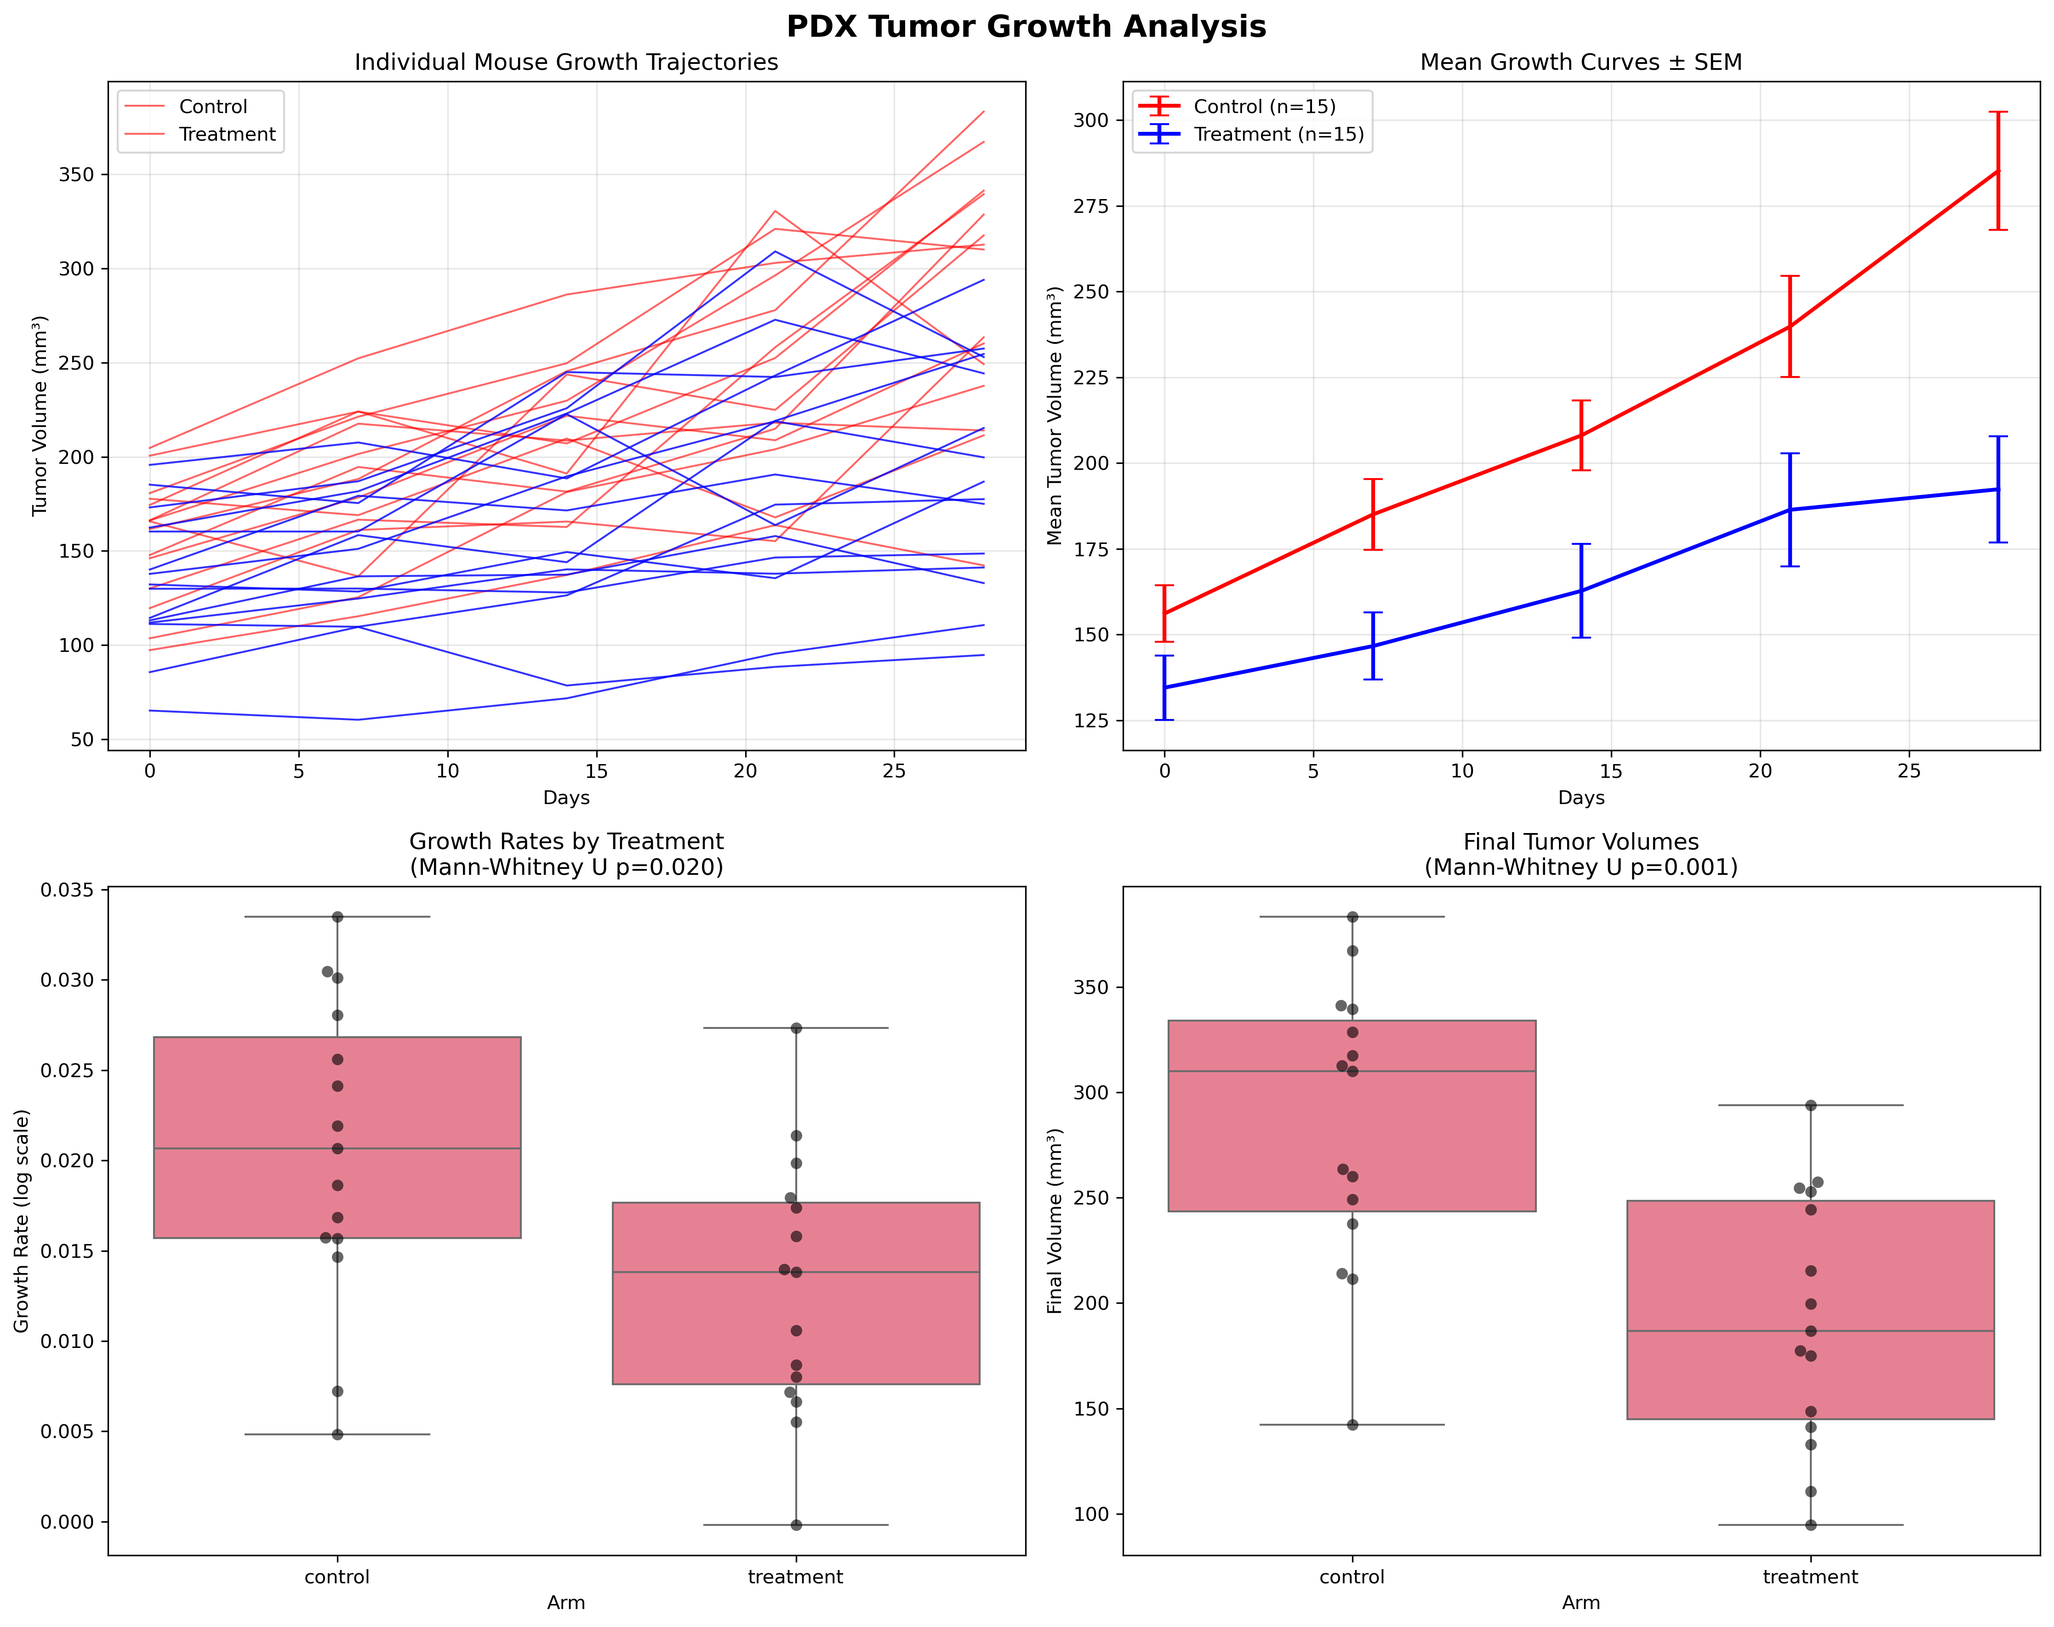
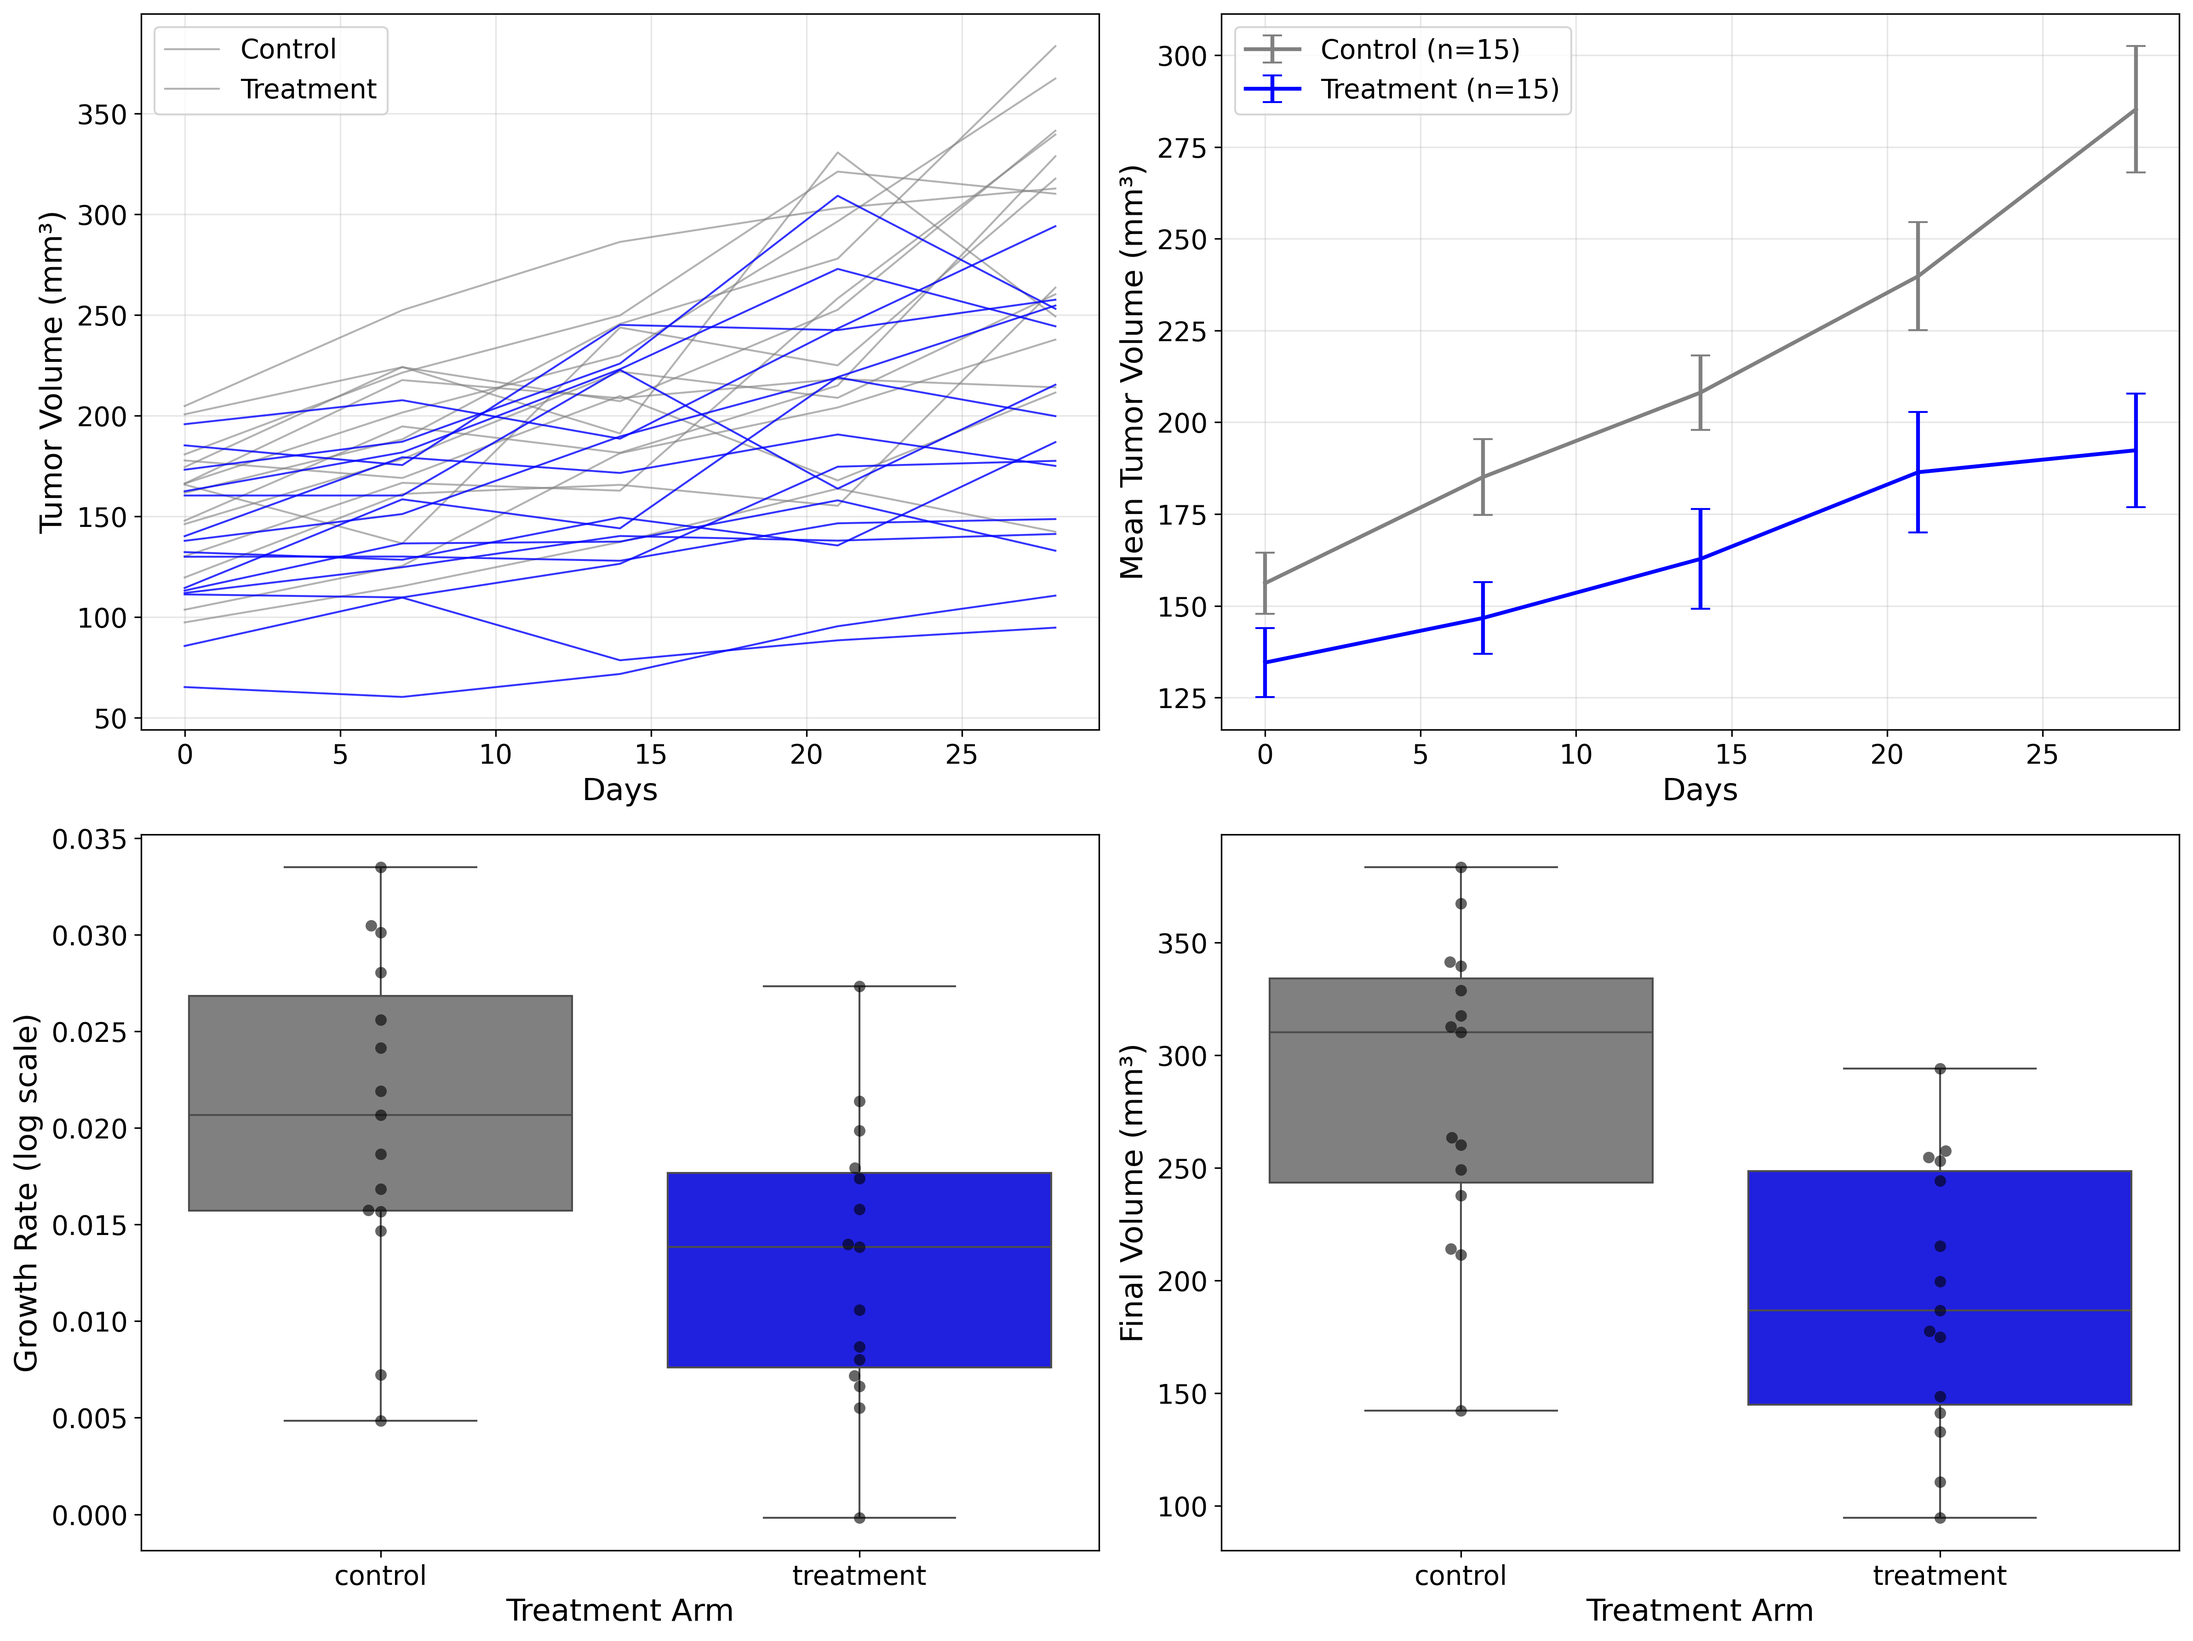
plots update

diff --git a/src/python/advanced_workflows.py b/src/python/advanced_workflows.py
@@ -85,26 +85,25 @@ class PDXWorkflows:
             
         print("\n=== GROWTH CURVE ANALYSIS ===")
         
-        # Create figure with subplots
-        fig, axes = plt.subplots(2, 2, figsize=(15, 12))
-        fig.suptitle('PDX Tumor Growth Analysis', fontsize=16, fontweight='bold')
+                # Create 2x2 subplot layout with larger fonts for mobile readability  
+        fig, axes = plt.subplots(2, 2, figsize=(16, 12))
         
-        # 1. Individual mouse trajectories by treatment
+        # 1. Individual mouse trajectories
         ax1 = axes[0, 0]
-        for arm in self.tumor_data['Arm'].unique():
+        for arm in ['control', 'treatment']:
             arm_data = self.tumor_data[self.tumor_data['Arm'] == arm]
             for model in arm_data['Model'].unique():
                 model_data = arm_data[arm_data['Model'] == model]
                 alpha = 0.6 if arm == 'control' else 0.8
-                color = 'red' if arm == 'control' else 'blue'
+                color = 'gray' if arm == 'control' else 'blue'  # Standard clinical colors
                 ax1.plot(model_data['Day'], model_data['Volume_mm3'], 
                         color=color, alpha=alpha, linewidth=1)
         
-        ax1.set_xlabel('Days')
-        ax1.set_ylabel('Tumor Volume (mm³)')
-        ax1.set_title('Individual Mouse Growth Trajectories')
-        ax1.legend(['Control', 'Treatment'])
+        ax1.set_xlabel('Days', fontsize=16)
+        ax1.set_ylabel('Tumor Volume (mm³)', fontsize=16)
+        ax1.legend(['Control', 'Treatment'], fontsize=14)
         ax1.grid(True, alpha=0.3)
+        ax1.tick_params(labelsize=14)
         
         # 2. Mean growth curves with error bars
         ax2 = axes[0, 1]
@@ -127,17 +126,17 @@ class PDXWorkflows:
         
         for arm in ['control', 'treatment']:
             arm_summary = summary_df[summary_df['Arm'] == arm]
-            color = 'red' if arm == 'control' else 'blue'
+            color = 'gray' if arm == 'control' else 'blue'  # Standard clinical colors
             ax2.errorbar(arm_summary['Day'], arm_summary['Mean'], 
                         yerr=arm_summary['SEM'], 
                         color=color, linewidth=2, capsize=5, 
                         label=f'{arm.title()} (n={arm_summary["N"].iloc[0]})')
         
-        ax2.set_xlabel('Days')
-        ax2.set_ylabel('Mean Tumor Volume (mm³)')
-        ax2.set_title('Mean Growth Curves ± SEM')
-        ax2.legend()
+        ax2.set_xlabel('Days', fontsize=16)
+        ax2.set_ylabel('Mean Tumor Volume (mm³)', fontsize=16)
+        ax2.legend(fontsize=14)
         ax2.grid(True, alpha=0.3)
+        ax2.tick_params(labelsize=14)
         
         # 3. Growth rate analysis
         ax3 = axes[1, 0]
@@ -159,8 +158,9 @@ class PDXWorkflows:
         
         growth_df = pd.DataFrame(growth_rates)
         
-        # Box plot of growth rates
-        sns.boxplot(data=growth_df, x='Arm', y='GrowthRate', ax=ax3)
+        # Box plot of growth rates with consistent colors and larger fonts
+        box_colors = ['gray', 'blue']  # control=gray, treatment=blue (clinical standard)
+        sns.boxplot(data=growth_df, x='Arm', y='GrowthRate', ax=ax3, palette=box_colors)
         sns.swarmplot(data=growth_df, x='Arm', y='GrowthRate', ax=ax3, 
                      color='black', alpha=0.6, size=6)
         
@@ -168,13 +168,12 @@ class PDXWorkflows:
         control_rates = growth_df[growth_df['Arm'] == 'control']['GrowthRate']
         treatment_rates = growth_df[growth_df['Arm'] == 'treatment']['GrowthRate']
         
-        if len(control_rates) > 0 and len(treatment_rates) > 0:
-            stat, p_value = mannwhitneyu(control_rates, treatment_rates, alternative='two-sided')
-            ax3.set_title(f'Growth Rates by Treatment\n(Mann-Whitney U p={p_value:.3f})')
-        else:
-            ax3.set_title('Growth Rates by Treatment')
+        # Remove titles for clean appearance
+        # Statistical significance can be inferred from the data visualization
             
-        ax3.set_ylabel('Growth Rate (log scale)')
+        ax3.set_ylabel('Growth Rate (log scale)', fontsize=16)
+        ax3.set_xlabel('Treatment Arm', fontsize=16)
+        ax3.tick_params(labelsize=14)
         
         # 4. Final volume comparison
         ax4 = axes[1, 1]
@@ -191,7 +190,9 @@ class PDXWorkflows:
         
         final_df = pd.DataFrame(final_volumes)
         
-        sns.boxplot(data=final_df, x='Arm', y='FinalVolume', ax=ax4)
+        # Box plot of final volumes with consistent colors and larger fonts
+        box_colors = ['gray', 'blue']  # control=gray, treatment=blue (clinical standard)
+        sns.boxplot(data=final_df, x='Arm', y='FinalVolume', ax=ax4, palette=box_colors)
         sns.swarmplot(data=final_df, x='Arm', y='FinalVolume', ax=ax4,
                      color='black', alpha=0.6, size=6)
         
@@ -199,13 +200,12 @@ class PDXWorkflows:
         control_final = final_df[final_df['Arm'] == 'control']['FinalVolume']
         treatment_final = final_df[final_df['Arm'] == 'treatment']['FinalVolume']
         
-        if len(control_final) > 0 and len(treatment_final) > 0:
-            stat, p_value = mannwhitneyu(control_final, treatment_final, alternative='two-sided')
-            ax4.set_title(f'Final Tumor Volumes\n(Mann-Whitney U p={p_value:.3f})')
-        else:
-            ax4.set_title('Final Tumor Volumes')
+        # Remove titles for clean appearance
+        # Statistical significance can be inferred from the data visualization
             
-        ax4.set_ylabel('Final Volume (mm³)')
+        ax4.set_ylabel('Final Volume (mm³)', fontsize=16)
+        ax4.set_xlabel('Treatment Arm', fontsize=16)
+        ax4.tick_params(labelsize=14)
         
         plt.tight_layout()
         
@@ -293,7 +293,6 @@ class PDXWorkflows:
         # Customize plot
         ax1.set_xlabel('PDX Models (ranked by response)')
         ax1.set_ylabel('Tumor Volume Change (%)')
-        ax1.set_title('Waterfall Plot: Drug Response Across PDX Models')
         ax1.legend()
         ax1.grid(True, alpha=0.3)
         
@@ -312,7 +311,6 @@ class PDXWorkflows:
                                           labels=response_counts.index,
                                           colors=colors_pie, autopct='%1.1f%%',
                                           startangle=90)
-        ax2.set_title('Response Distribution')
         
         plt.tight_layout()
         
@@ -388,25 +386,25 @@ class PDXWorkflows:
             print("No survival data available")
             return
         
-        # Create Kaplan-Meier plot
+        # Create Kaplan-Meier plot with larger fonts for mobile readability
         fig, (ax1, ax2) = plt.subplots(1, 2, figsize=(15, 6))
         
         kmf = KaplanMeierFitter()
         
-        # Plot survival curves by treatment arm
+        # Plot survival curves by treatment arm with clinical standard colors
         arms = survival_df['Arm'].unique()
-        colors = ['red', 'blue']
+        colors = ['gray', 'blue']  # control=gray, treatment=blue (clinical standard)
         
         for i, arm in enumerate(arms):
             arm_data = survival_df[survival_df['Arm'] == arm]
             kmf.fit(arm_data['Time'], arm_data['Event'], label=f'{arm.title()} (n={len(arm_data)})')
             kmf.plot_survival_function(ax=ax1, color=colors[i], linewidth=2)
         
-        ax1.set_xlabel('Time (days)')
-        ax1.set_ylabel('Progression-Free Survival')
-        ax1.set_title('Kaplan-Meier Survival Curves')
+        ax1.set_xlabel('Time (days)', fontsize=16)
+        ax1.set_ylabel('Progression-Free Survival', fontsize=16)
         ax1.grid(True, alpha=0.3)
-        ax1.legend()
+        ax1.legend(fontsize=14)
+        ax1.tick_params(labelsize=14)
         
         # Add median survival times
         for i, arm in enumerate(arms):
@@ -453,7 +451,6 @@ class PDXWorkflows:
         table.auto_set_font_size(False)
         table.set_fontsize(10)
         table.scale(1.2, 1.5)
-        ax2.set_title('Survival Summary', fontweight='bold')
         
         plt.tight_layout()
         
@@ -579,8 +576,6 @@ class PDXWorkflows:
                    cbar_kws={'label': 'Standardized Expression'},
                    ax=ax_main)
         
-        ax_main.set_title('Gene Expression vs Drug Response\n(Models sorted by response)', 
-                         fontweight='bold')
         ax_main.set_xlabel('Genes')
         ax_main.set_ylabel('PDX Models')
         
@@ -594,21 +589,19 @@ class PDXWorkflows:
                         color=response_colors, alpha=0.7)
         ax_response.set_ylim(-0.5, len(sorted_models)-0.5)
         ax_response.set_xlabel('Response (%)')
-        ax_response.set_title('Drug\nResponse')
         ax_response.axvline(x=0, color='black', linestyle='-', alpha=0.5)
         ax_response.axvline(x=-30, color='green', linestyle='--', alpha=0.7)
         ax_response.axvline(x=20, color='red', linestyle='--', alpha=0.7)
         
-        # Treatment arm annotation
+        # Treatment arm annotation with clinical standard colors
         ax_arm = fig.add_subplot(gs[1, 2])
-        arm_colors = ['blue' if response_metrics[model]['Arm'] == 'treatment' else 'red' 
+        arm_colors = ['blue' if response_metrics[model]['Arm'] == 'treatment' else 'gray' 
                      for model in sorted_models]
         
         for i, color in enumerate(arm_colors):
             ax_arm.barh(i, 1, color=color, alpha=0.7)
         ax_arm.set_ylim(-0.5, len(sorted_models)-0.5)
         ax_arm.set_xlim(0, 1)
-        ax_arm.set_title('Treatment\nArm')
         ax_arm.set_xticks([])
         
         # Gene correlation plot at top
@@ -621,7 +614,6 @@ class PDXWorkflows:
                    color=gene_colors, alpha=0.7)
         ax_corr.set_xlim(-0.5, len(selected_genes)-0.5)
         ax_corr.set_ylabel('Correlation\nwith Response')
-        ax_corr.set_title('Gene-Response Correlations')
         ax_corr.axhline(y=0, color='black', linestyle='-', alpha=0.5)
         ax_corr.set_xticks([])
         
@@ -817,8 +809,6 @@ class PDXWorkflows:
         
         # Customize plot
         ax.set_ylim(0, 1.2)
-        ax.set_title('Circos Plot: Genomic Variants Across PDX Models', 
-                    fontsize=14, fontweight='bold', pad=20)
         ax.grid(False)
         ax.set_xticks([])
         ax.set_yticks([])
@@ -967,7 +957,7 @@ class PDXWorkflows:
         volcano_data.loc[~volcano_data['FDR_Significant'], 'Direction'] = 'Not Significant'
         
         # Create volcano plot - Mobile-friendly dimensions
-        fig, ax = plt.subplots(figsize=(10, 10))
+        fig, ax = plt.subplots(figsize=(11, 9))
         
         # Color scheme
         colors = {

diff --git a/README.md b/README.md
@@ -48,6 +48,7 @@ conda activate pdx_analysis
 - **Molecular Heatmaps**: Expression-response correlation visualization
 - **Volcano Plots**: Differential gene expression analysis (treatment vs control)
 - **Circos Plots**: Genome-wide variant distribution mapping
+- **Clinical Color Scheme**: Standard colors (control=gray, treatment=blue) with mobile-optimized fonts
 
 ### 🔧 **Streamlined Package**
 - **Reduced Complexity**: Removed Docker and non-essential components
@@ -397,6 +398,21 @@ This tutorial generates the following publication-ready visualizations:
 - **Tumor volume effect**: ~56% growth inhibition (dramatic response)
 - **Consistent responders**: Most models show clear treatment benefit
 - **Use case**: Demonstrating ideal study outcomes and method validation
+
+## 🎨 **Visualization Standards**
+
+### Clinical Color Scheme
+Following established clinical research visualization standards:
+- **Control Group**: Gray (neutral, standard for baseline/control conditions)
+- **Treatment Group**: Blue (distinct, professional color for interventions)
+- **This scheme**: Widely used in clinical trials, PDX studies, and oncology research publications
+
+### Mobile-Optimized Design
+- **Large Fonts**: 16-18pt labels, 14pt axis labels for phone readability
+- **High Contrast**: Clear color differentiation for accessibility
+- **Scalable Layouts**: Multi-panel plots with appropriate spacing
+- **Clean Appearance**: Title-free plots for minimal, professional look
+- **Publication Ready**: Publication-quality plots suitable for presentations and manuscripts
 
 ### Enhanced Study Features
 - **Lower technical noise**: Improved experimental protocols
